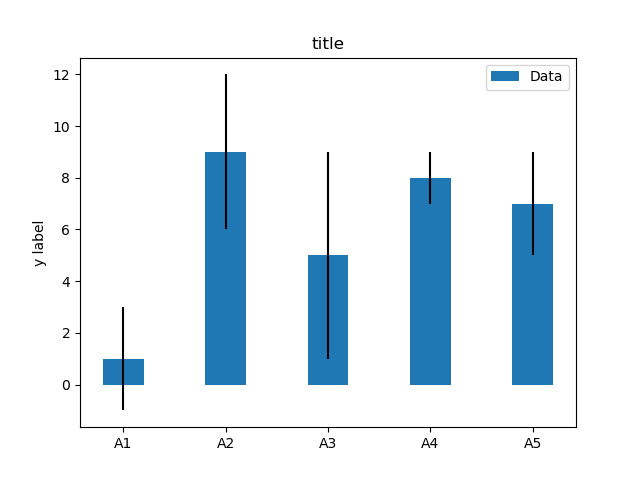
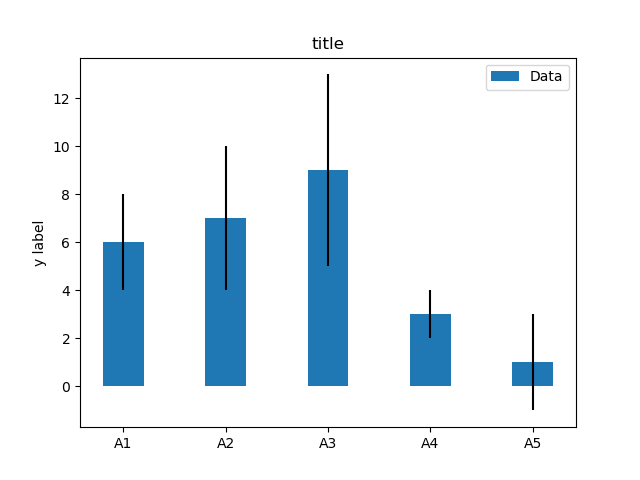
first commit

diff --git a/example.py b/example.py
@@ -2,7 +2,7 @@ import numpy as np
 import matplotlib.pyplot as plt
 
 labels = ['A1', 'A2', 'A3', 'A4', 'A5']
-m_means = [1,9,5,8,7]
+m_means = [6,7,9,3,1]
 m_std = [2, 3, 4, 1, 2]
 width = 0.40       # the width of the bars
 

diff --git a/README.md b/README.md
@@ -1,4 +1,4 @@
-# Matplotlib no 86 
+# Matplotlib no 87 
 
 python example
 
